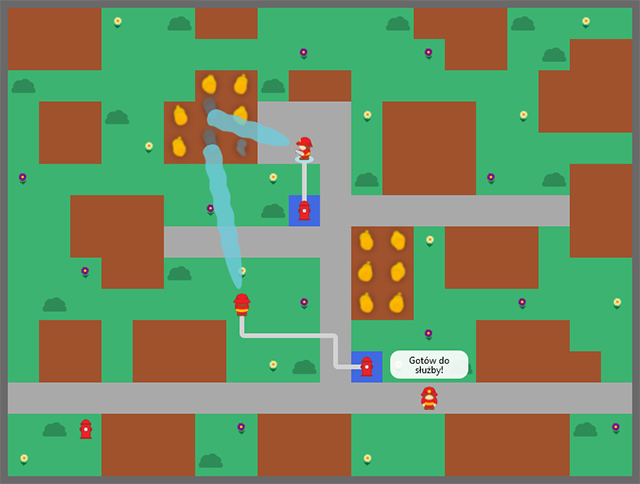
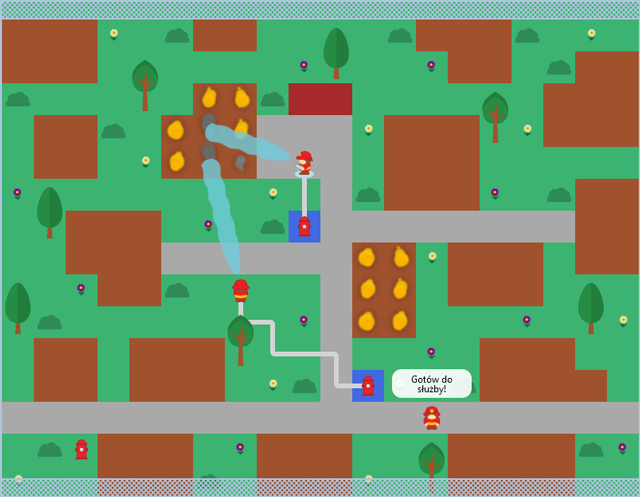
Version 0.51
Trees and new map borders.

diff --git a/src/components/App.js b/src/components/App.js
@@ -7,8 +7,9 @@ function App() {
     <Map
       x="20"
       y="15"
-      data='[[["WOOD","WOOD","WOOD",null,null,null,"WOOD","WOOD",null,null,null,null,null,"WOOD","WOOD","WOOD",null,null,null,null],["WOOD","WOOD","WOOD",null,null,null,null,null,null,null,null,null,null,null,"WOOD","WOOD",null,null,"WOOD","WOOD"],[null,null,null,null,null,null,"WOOD","WOOD",null,"WOOD","WOOD",null,null,null,null,null,null,"WOOD","WOOD","WOOD"],[null,"WOOD","WOOD",null,null,"WOOD","WOOD","WOOD","ASPHALT","ASPHALT","ASPHALT",null,"WOOD","WOOD","WOOD",null,null,"WOOD","WOOD","WOOD"],[null,"WOOD","WOOD",null,null,"WOOD","WOOD","WOOD","ASPHALT","ASPHALT","ASPHALT",null,"WOOD","WOOD","WOOD",null,null,null,null,null],[null,null,null,null,null,null,null,null,null,null,"ASPHALT",null,"WOOD","WOOD","WOOD",null,null,null,"WOOD","WOOD"],[null,null,"WOOD","WOOD","WOOD",null,null,null,null,"WATER","ASPHALT","ASPHALT","ASPHALT","ASPHALT","ASPHALT","ASPHALT","ASPHALT","ASPHALT","WOOD","WOOD"],[null,null,"WOOD","WOOD","WOOD","ASPHALT","ASPHALT","ASPHALT","ASPHALT","ASPHALT","ASPHALT","WOOD","WOOD",null,"WOOD","WOOD","WOOD",null,"WOOD","WOOD"],[null,null,null,"WOOD","WOOD",null,null,null,null,null,"ASPHALT","WOOD","WOOD",null,"WOOD","WOOD","WOOD",null,null,null],[null,null,null,null,null,null,null,null,null,null,"ASPHALT","WOOD","WOOD",null,null,null,null,null,null,null],[null,"WOOD","WOOD",null,"WOOD","WOOD","WOOD",null,null,null,"ASPHALT",null,null,null,null,"WOOD","WOOD","WOOD",null,null],[null,"WOOD","WOOD",null,"WOOD","WOOD","WOOD",null,null,null,"ASPHALT","WATER",null,null,null,"WOOD","WOOD","WOOD","WOOD",null],["ASPHALT","ASPHALT","ASPHALT","ASPHALT","ASPHALT","ASPHALT","ASPHALT","ASPHALT","ASPHALT","ASPHALT","ASPHALT","ASPHALT","ASPHALT","ASPHALT","ASPHALT","ASPHALT","ASPHALT","ASPHALT","ASPHALT","ASPHALT"],[null,null,null,"WOOD","WOOD","WOOD",null,null,"WOOD","WOOD","WOOD",null,null,null,"WOOD","WOOD","WOOD","WOOD",null,null],[null,null,null,"WOOD","WOOD","WOOD",null,null,"WOOD","WOOD","WOOD",null,null,null,"WOOD","WOOD","WOOD","WOOD",null,null]],[{"x":9,"y":6,"name":"HYDRANT"},{"x":11,"y":11,"name":"HYDRANT"},{"x":2,"y":13,"name":"HYDRANT"},{"x":8,"y":6,"name":"BUSH"},{"x":11,"y":5,"name":"BUSH"},{"x":8,"y":2,"name":"BUSH"},{"x":5,"y":8,"name":"BUSH"},{"x":14,"y":11,"name":"BUSH"},{"x":17,"y":5,"name":"BUSH"},{"x":3,"y":3,"name":"BUSH"},{"x":18,"y":13,"name":"BUSH"},{"x":1,"y":13,"name":"BUSH"},{"x":1,"y":9,"name":"BUSH"},{"x":17,"y":1,"name":"BUSH"},{"x":16,"y":0,"name":"BUSH"},{"x":12,"y":0,"name":"BUSH"},{"x":0,"y":2,"name":"BUSH"},{"x":5,"y":0,"name":"BUSH"},{"x":6,"y":14,"name":"BUSH"},{"x":9,"y":9,"name":"FLOWER_1"},{"x":7,"y":8,"name":"FLOWER_2"},{"x":6,"y":6,"name":"FLOWER_1"},{"x":13,"y":10,"name":"FLOWER_1"},{"x":11,"y":3,"name":"FLOWER_2"},{"x":8,"y":5,"name":"FLOWER_2"},{"x":12,"y":11,"name":"FLOWER_2"},{"x":15,"y":5,"name":"FLOWER_1"},{"x":13,"y":7,"name":"FLOWER_2"},{"x":3,"y":0,"name":"FLOWER_2"},{"x":18,"y":0,"name":"FLOWER_2"},{"x":19,"y":9,"name":"FLOWER_2"},{"x":11,"y":14,"name":"FLOWER_2"},{"x":4,"y":4,"name":"FLOWER_2"},{"x":0,"y":5,"name":"FLOWER_1"},{"x":2,"y":8,"name":"FLOWER_1"},{"x":13,"y":1,"name":"FLOWER_1"},{"x":16,"y":9,"name":"FLOWER_1"},{"x":9,"y":1,"name":"FLOWER_1"},{"x":8,"y":11,"name":"FLOWER_2"},{"x":0,"y":14,"name":"FLOWER_2"},{"x":19,"y":13,"name":"FLOWER_1"},{"x":7,"y":13,"name":"FLOWER_1"},{"x":16,"y":3,"name":"FLOWER_2"},{"x":9,"y":11,"name":"BUSH"}]]'
+      data='[[["WOOD","WOOD","WOOD",null,null,null,"WOOD","WOOD",null,null,null,null,null,"WOOD","WOOD","WOOD",null,null,null,null],["WOOD","WOOD","WOOD",null,null,null,null,null,null,null,null,null,null,null,"WOOD","WOOD",null,null,"WOOD","WOOD"],[null,null,null,null,null,null,"WOOD","WOOD",null,"BRICK","BRICK",null,null,null,null,null,null,"WOOD","WOOD","WOOD"],[null,"WOOD","WOOD",null,null,"WOOD","WOOD","WOOD","ASPHALT","ASPHALT","ASPHALT",null,"WOOD","WOOD","WOOD",null,null,"WOOD","WOOD","WOOD"],[null,"WOOD","WOOD",null,null,"WOOD","WOOD","WOOD","ASPHALT","ASPHALT","ASPHALT",null,"WOOD","WOOD","WOOD",null,null,null,null,null],[null,null,null,null,null,null,null,null,null,null,"ASPHALT",null,"WOOD","WOOD","WOOD",null,null,null,"WOOD","WOOD"],[null,null,"WOOD","WOOD","WOOD",null,null,null,null,"WATER","ASPHALT","ASPHALT","ASPHALT","ASPHALT","ASPHALT","ASPHALT","ASPHALT","ASPHALT","WOOD","WOOD"],[null,null,"WOOD","WOOD","WOOD","ASPHALT","ASPHALT","ASPHALT","ASPHALT","ASPHALT","ASPHALT","WOOD","WOOD",null,"WOOD","WOOD","WOOD",null,"WOOD","WOOD"],[null,null,null,"WOOD","WOOD",null,null,null,null,null,"ASPHALT","WOOD","WOOD",null,"WOOD","WOOD","WOOD",null,null,null],[null,null,null,null,null,null,null,null,null,null,"ASPHALT","WOOD","WOOD",null,null,null,null,null,null,null],[null,"WOOD","WOOD",null,"WOOD","WOOD","WOOD",null,null,null,"ASPHALT",null,null,null,null,"WOOD","WOOD","WOOD",null,null],[null,"WOOD","WOOD",null,"WOOD","WOOD","WOOD",null,null,null,"ASPHALT","WATER",null,null,null,"WOOD","WOOD","WOOD","WOOD",null],["ASPHALT","ASPHALT","ASPHALT","ASPHALT","ASPHALT","ASPHALT","ASPHALT","ASPHALT","ASPHALT","ASPHALT","ASPHALT","ASPHALT","ASPHALT","ASPHALT","ASPHALT","ASPHALT","ASPHALT","ASPHALT","ASPHALT","ASPHALT"],[null,null,null,"WOOD","WOOD","WOOD",null,null,"WOOD","WOOD","WOOD",null,null,null,"WOOD","WOOD","WOOD","WOOD",null,null],[null,null,null,"WOOD","WOOD","WOOD",null,null,"WOOD","WOOD","WOOD",null,null,null,"WOOD","WOOD","WOOD","WOOD",null,null]],[{"x":9,"y":6,"name":"HYDRANT"},{"x":11,"y":11,"name":"HYDRANT"},{"x":2,"y":13,"name":"HYDRANT"},{"x":8,"y":6,"name":"BUSH"},{"x":11,"y":5,"name":"BUSH"},{"x":8,"y":2,"name":"BUSH"},{"x":5,"y":8,"name":"BUSH"},{"x":14,"y":11,"name":"BUSH"},{"x":17,"y":5,"name":"BUSH"},{"x":3,"y":3,"name":"BUSH"},{"x":18,"y":13,"name":"BUSH"},{"x":1,"y":13,"name":"BUSH"},{"x":1,"y":9,"name":"BUSH"},{"x":17,"y":1,"name":"BUSH"},{"x":16,"y":0,"name":"BUSH"},{"x":12,"y":0,"name":"BUSH"},{"x":0,"y":2,"name":"BUSH"},{"x":5,"y":0,"name":"BUSH"},{"x":6,"y":14,"name":"BUSH"},{"x":9,"y":9,"name":"FLOWER_1"},{"x":7,"y":8,"name":"FLOWER_2"},{"x":6,"y":6,"name":"FLOWER_1"},{"x":13,"y":10,"name":"FLOWER_1"},{"x":11,"y":3,"name":"FLOWER_2"},{"x":8,"y":5,"name":"FLOWER_2"},{"x":12,"y":11,"name":"FLOWER_2"},{"x":15,"y":5,"name":"FLOWER_1"},{"x":13,"y":7,"name":"FLOWER_2"},{"x":3,"y":0,"name":"FLOWER_2"},{"x":18,"y":0,"name":"FLOWER_2"},{"x":19,"y":9,"name":"FLOWER_2"},{"x":11,"y":14,"name":"FLOWER_2"},{"x":4,"y":4,"name":"FLOWER_2"},{"x":0,"y":5,"name":"FLOWER_1"},{"x":2,"y":8,"name":"FLOWER_1"},{"x":13,"y":1,"name":"FLOWER_1"},{"x":16,"y":9,"name":"FLOWER_1"},{"x":9,"y":1,"name":"FLOWER_1"},{"x":8,"y":11,"name":"FLOWER_2"},{"x":0,"y":14,"name":"FLOWER_2"},{"x":19,"y":13,"name":"FLOWER_1"},{"x":7,"y":13,"name":"FLOWER_1"},{"x":16,"y":3,"name":"FLOWER_2"},{"x":9,"y":11,"name":"BUSH"},{"x":7,"y":9,"name":"TREE_2"},{"x":1,"y":5,"name":"TREE_1"},{"x":0,"y":8,"name":"TREE_1"},{"x":13,"y":13,"name":"TREE_2"},{"x":18,"y":8,"name":"TREE_1"},{"x":15,"y":2,"name":"TREE_2"},{"x":10,"y":0,"name":"TREE_1"},{"x":4,"y":1,"name":"TREE_2"}]]'
       firestarter='[{"x":5,"y":3},{"x":11,"y":9}]'
+      firefighters='[{"x":8,"y":8},{"x":13,"y":12}]'
     />
   );
 }

diff --git a/src/components/Map.js b/src/components/Map.js
@@ -1,7 +1,7 @@
 import React from 'react';
 import Fireman from './Fireman';
 import { connect } from 'react-redux';
-import { mapToStore, visualLayerToggle, addFireman, setFiremanTarget, clientSelected, setDialogue } from './../actions';
+import { mapToStore, visualLayerToggle, dataLayerToggle, addFireman, setFiremanTarget, clientSelected, setDialogue } from './../actions';
 
 class Map extends React.Component {
 
@@ -39,7 +39,12 @@ class Map extends React.Component {
       temperature[block.y][block.x] = this.state.fireInit;
       return 0;
     });
-
+    // Spawn firemans
+    let firemans = JSON.parse(this.props.firefighters);
+    firemans.map((block, i) => {
+      this.props.addFireman(i, { x: block.x, y: block.y });
+      return 0;
+    });
     // Update map in the store
     this.mapToStore(this.props.x, this.props.y, data, visual, temperature);
     // Set fire simulaiton interval
@@ -61,6 +66,10 @@ class Map extends React.Component {
     // Toggle visual layer
     if(key === 'v') {
       this.props.visualLayerToggle();
+    }
+    // Toggle data layer
+    if(key === 'd') {
+      this.props.dataLayerToggle();
     }
   }
 
@@ -151,8 +160,11 @@ class Map extends React.Component {
       somethingChange = true;
     }
     // Add visual element
-    if(['HYDRANT', 'BUSH', 'FLOWER'].includes(type)) {
+    if(['HYDRANT', 'BUSH', 'FLOWER', 'TREE'].includes(type)) {
       if(type === 'FLOWER') {
+        type = type+'_'+(Math.floor(Math.random() * 2) + 1);
+      }
+      if(type === 'TREE') {
         type = type+'_'+(Math.floor(Math.random() * 2) + 1);
       }
       visual.push({ x, y, name: type });
@@ -199,6 +211,8 @@ class Map extends React.Component {
       } else if(!['WOOD', 'BRICK'].includes(this.props.store.data[y][x])) {
         this.props.setFiremanTarget(this.props.client.selectedId, { x, y }, 'Move');
         this.props.clientSelected(null);
+      } else if('BRICK' === this.props.store.data[y][x]) {
+        this.props.setDialogue(this.props.client.selectedId, 'Nie mogę tam pójść.');
       }
     }
     // Update map in the store
@@ -221,21 +235,25 @@ class Map extends React.Component {
         }
         // Block type
         let type;
-        switch(map.data[iy][ix]) {
-          case 'BRICK':
-            type = 'Brick';
-            break;
-          case 'WOOD':
-            type = 'Wood';
-            break;
-          case 'ASPHALT':
-            type = 'Asphalt';
-            break;
-          case 'WATER':
-            type = 'Water';
-            break;
-          default:
-            type = 'Empty';
+        if(this.props.store.dataLayer) {
+          switch(map.data[iy][ix]) {
+            case 'BRICK':
+              type = 'Brick';
+              break;
+            case 'WOOD':
+              type = 'Wood';
+              break;
+            case 'ASPHALT':
+              type = 'Asphalt';
+              break;
+            case 'WATER':
+              type = 'Water';
+              break;
+            default:
+              type = 'Empty';
+          }
+        } else {
+          type = 'Empty';
         }
         // Create block
         columns.push(
@@ -352,15 +370,16 @@ class Map extends React.Component {
       return 0;
     });
     // Render map
-    if(window.innerWidth >= this.props.store.cords.x * this.state.blockSize + 120) {
+    if(window.innerWidth >= this.props.store.cords.x * this.state.blockSize + 100) {
       return <div id="Map" className="Map">
         { this.generateMapBody() }
         { (this.props.store.visualLayer) ? this.generateVisualLayer() : null }
         { this.generateFireLayer() }
         { firemans }
+        <div className="MapBorder"></div>
       </div>;
     } else {
-      return <span>Rozdzielczość okna przegląarki jest zbyt mała.</span>;
+      return <span className="ResolutionAlert">Rozdzielczość okna przeglądarki jest zbyt mała.</span>;
     }
   }
 
@@ -378,6 +397,7 @@ const mapDispatchToProps = dispatch => {
   return {
     mapToStore: (x, y, data, visual, temperature) => dispatch(mapToStore(x, y, data, visual, temperature)),
     visualLayerToggle: () => dispatch(visualLayerToggle()),
+    dataLayerToggle: () => dispatch(dataLayerToggle()),
     addFireman: (id, position) => dispatch(addFireman(id, position)),
     setFiremanTarget: (id, target, action) => dispatch(setFiremanTarget(id, target, action)),
     clientSelected: (selected, selectedId) => dispatch(clientSelected(selected, selectedId)),

diff --git a/src/styles/map.scss b/src/styles/map.scss
@@ -1,9 +1,38 @@
 .Map {
-  border: 10px solid $grey;
   position: relative;
+  background-color: white;
   margin: 50px;
   .Row {
     display: flex;
     flex-direction: row;
+  }
+}
+
+.MapBorder {
+  position: absolute;
+  top: 0px;
+  left: -$map-border-width;
+  width: 100%;
+  height: 100%;
+  border-left: $map-border-width solid $map-border;
+  border-right: $map-border-width solid $map-border;
+  pointer-events: none;
+  &:before, &:after {
+    content: "";
+    display: block;
+    position: absolute;
+    left: -$map-border-width;
+    width: 100%;
+    height: $block-size / 2;
+    border: $map-border-width solid $map-border;
+    background-image: url('../images/fence.svg');
+    background-position: center;
+  }
+  &:before {
+    top: -($block-size / 2) - (2 * $map-border-width);
+  }
+  &:after {
+    bottom: 0px;
+    z-index: 4;
   }
 }

diff --git a/src/reducers/map.js b/src/reducers/map.js
@@ -1,4 +1,4 @@
-const map = (state = { cords: { x: null, y: null }, data: [], visual: [], temperature: [], grid: false, visualLayer: true }, action) => {
+const map = (state = { cords: { x: null, y: null }, data: [], visual: [], temperature: [], grid: false, visualLayer: true, dataLayer: true }, action) => {
   switch(action.type) {
     case 'mapToStore':
       return {
@@ -12,6 +12,8 @@ const map = (state = { cords: { x: null, y: null }, data: [], visual: [], temper
       return { ...state, grid: !state.grid };
     case 'visualLayerToggle':
       return { ...state, visualLayer: !state.visualLayer };
+    case 'dataLayerToggle':
+      return { ...state, dataLayer: !state.dataLayer };
     default:
       return state;
   }

diff --git a/src/index.js b/src/index.js
@@ -5,10 +5,10 @@ import Console from './components/Console';
 import allReducers from './reducers';
 import { Provider } from 'react-redux';
 import { createStore } from 'redux';
-import './styles/index.css';
+import './styles/app.scss';
 import * as serviceWorker from './serviceWorker';
 
-const version = '0.5';
+const version = '0.51';
 const devMode = true;
 
 const store = createStore(

diff --git a/src/styles/console.scss b/src/styles/console.scss
@@ -7,8 +7,7 @@
     width: 100%;
     border: none;
     padding: 10px;
-    background-color: rgba(255,255,255,.8);
-    border-top: 1px solid grey;
+    background-color: white;
   }
 }
 
@@ -16,6 +15,10 @@
   position: fixed;
   top: 5px;
   left: 5px;
-  color: grey;
   font-size: 12px;
+  color: white;
+}
+
+.ResolutionAlert {
+  color: white;
 }

diff --git a/src/components/Console.js b/src/components/Console.js
@@ -44,6 +44,9 @@ class Console extends React.Component {
       case '/select flower':
         this.props.clientSelected('FLOWER');
         break;
+      case '/select tree':
+        this.props.clientSelected('TREE');
+        break;
       case '/select erase':
         this.props.clientSelected('ERASE');
         break;

diff --git a/src/actions.js b/src/actions.js
@@ -20,6 +20,12 @@ export function visualLayerToggle() {
   }
 }
 
+export function dataLayerToggle() {
+  return {
+    type: 'dataLayerToggle',
+  }
+}
+
 export function clientSelected(selected, selectedId = null) {
   return {
     type: 'clientSelected',

diff --git a/src/styles/variables.scss b/src/styles/variables.scss
@@ -17,7 +17,10 @@ $connector-alt: #C0C0C0;
 
 $selected: #B0E0E6;
 
+$map-border: #B0C4DE;
+
 $block-size: 40px;
 $water-stream-size: 25px;
 $connector-width: 6px;
 $dialogue-width: 100px;
+$map-border-width: 2px;

diff --git a/src/styles/index.scss b/src/styles/index.scss
@@ -10,6 +10,7 @@ body {
   display: flex;
   justify-content: center;
   align-items: center;
+  background-color: $grass;
 }
 
 code {

diff --git a/src/styles/app.scss b/src/styles/app.scss
@@ -1,4 +1,5 @@
 @import 'variables.scss';
+@import 'index.scss';
 @import 'map.scss';
 @import 'block.scss';
 @import 'fire.scss';

diff --git a/src/styles/visualElement.scss b/src/styles/visualElement.scss
@@ -48,4 +48,7 @@
       }
     }
   }
+  &.tree_1, &.tree_2 {
+    z-index: 3;
+  }
 }
